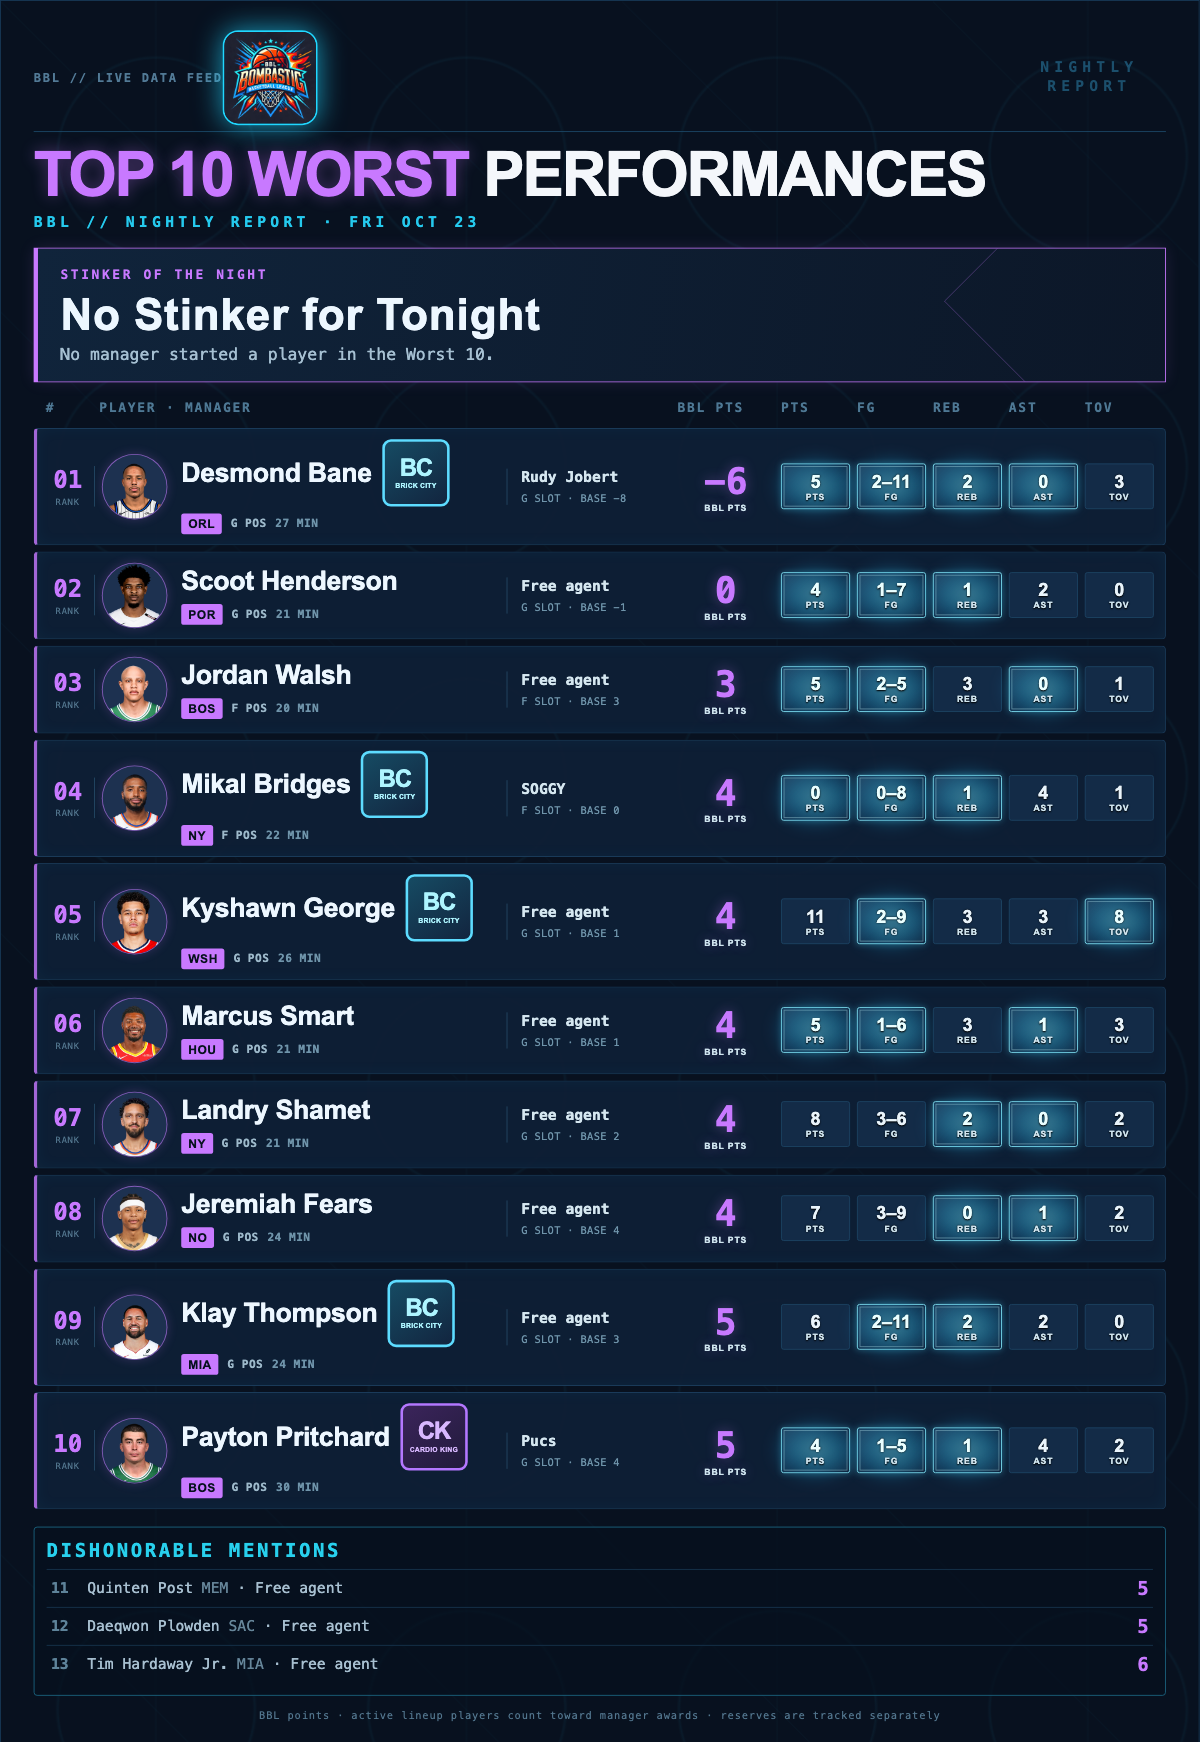
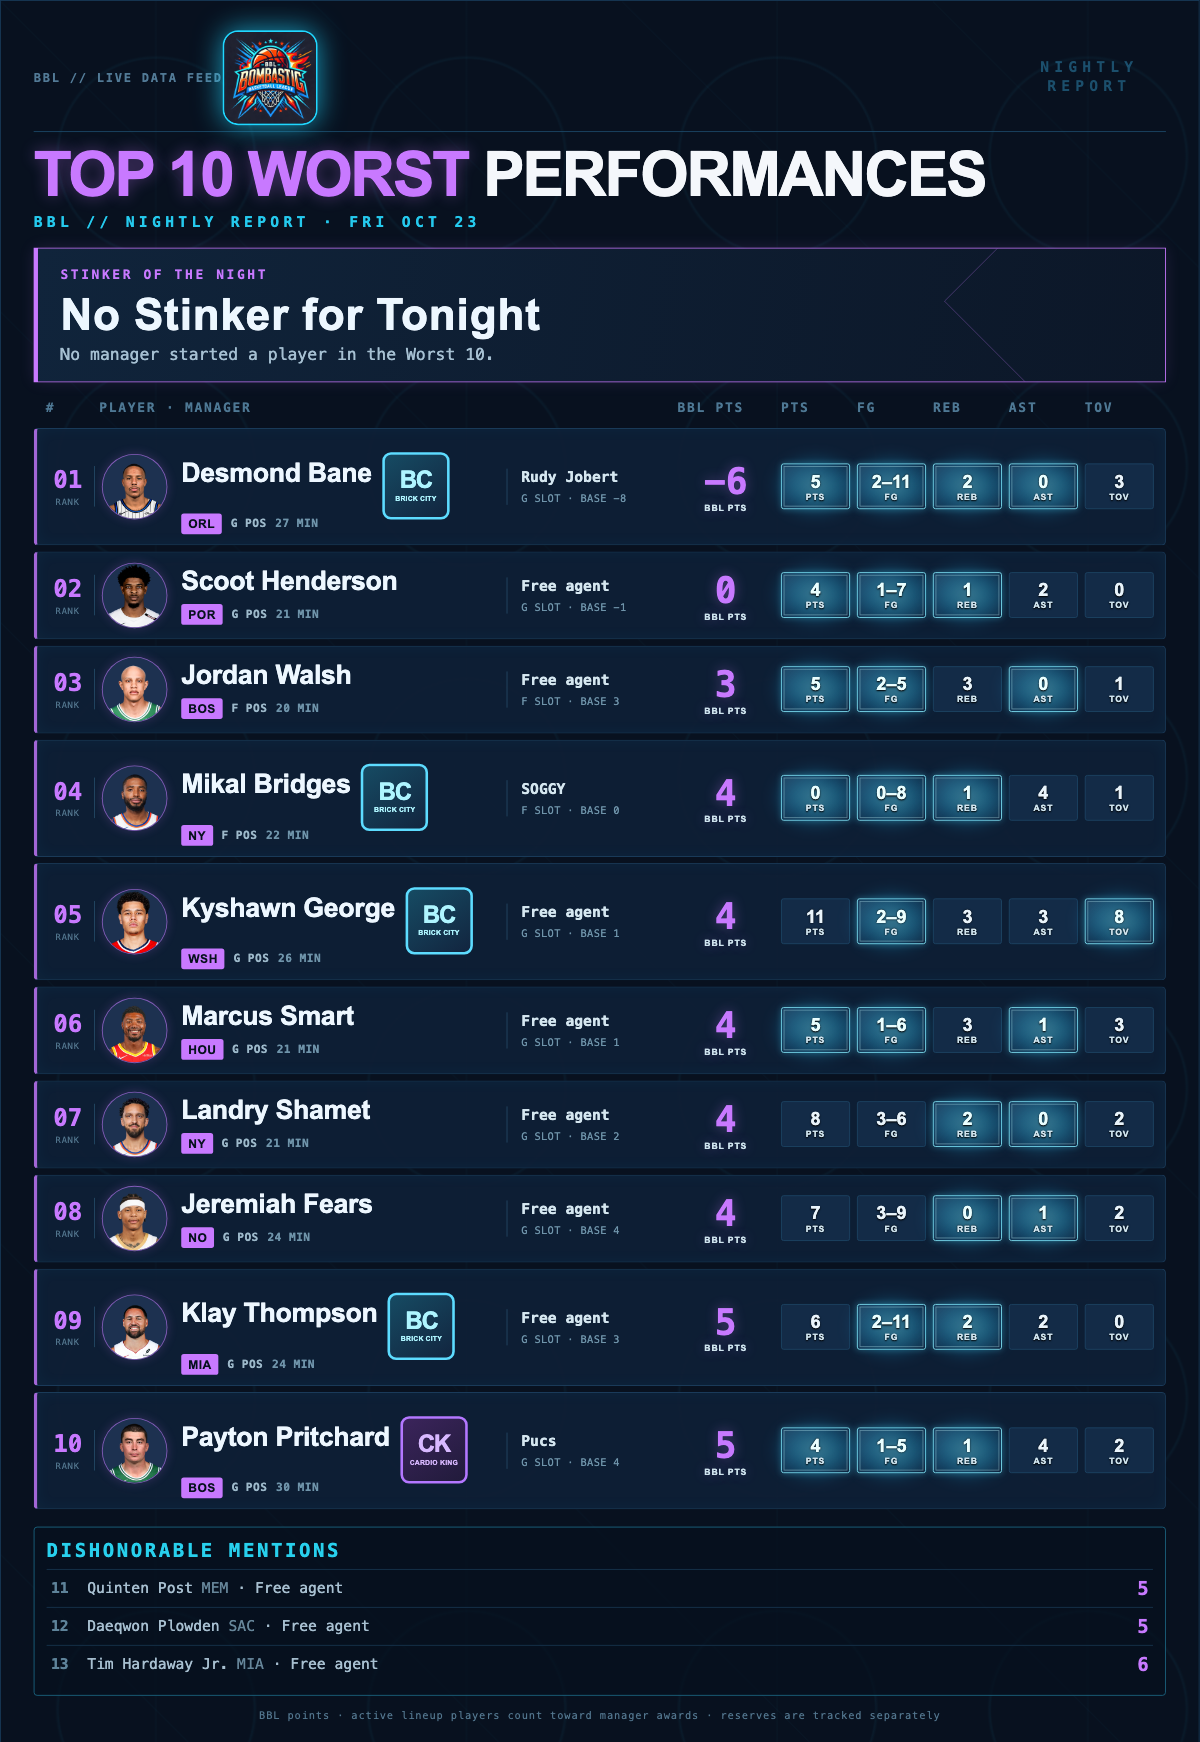
Center award emblems within player cards

diff --git a/bbl/social_cards.py b/bbl/social_cards.py
@@ -149,7 +149,7 @@ h1{{font-size:62px;line-height:.9;margin:0;color:#f4f7fb;letter-spacing:-2px;tex
 .label{{font:700 14px monospace;letter-spacing:3px;color:{accent};text-transform:uppercase}}.award h2{{font-size:42px;letter-spacing:1px;margin:7px 0 3px}}.award p{{font:17px monospace;margin:0;color:#a6c0d2}}
 .cols,.row{{display:grid;grid-template-columns:54px 1fr 112px {stat_columns};gap:8px;align-items:center}}.cols{{padding:0 14px 6px;color:#4e7894;font:700 13px monospace;letter-spacing:2px;text-transform:uppercase}}
 .row{{background:rgba(14,31,53,.94);border:1px solid #1b3c5b;border-left:4px solid {accent}cc;border-radius:5px;padding:9px 12px;margin:6px 0;box-shadow:inset 0 0 18px rgba(30,170,230,.05)}}.row:hover{{border-color:{accent}}}.rank{{font:700 24px monospace;color:{accent};text-align:center;border-right:1px solid #244965;padding-right:8px}}.rank small{{display:block;font:9px monospace;color:#52758d;letter-spacing:1px;margin-top:3px}}
- .who{{display:grid;grid-template-columns:70px minmax(0,1fr) 190px;gap:12px;align-items:center;min-width:0}}.who b{{display:block;font-size:24px;letter-spacing:-.4px;white-space:nowrap;overflow:hidden;text-overflow:ellipsis}}.headshot{{width:66px;height:66px;object-fit:cover;border-radius:50%;background:#1d3150;border:1px solid {accent}99;box-shadow:0 0 12px {accent}33}}.headshot.placeholder{{background:linear-gradient(135deg,#162c47,#0a1627)}}.name-line{{display:flex;align-items:center;gap:12px;min-width:0}}.name-line b{{min-width:0}}.player-meta{{display:flex;align-items:center;gap:8px;margin-top:6px;white-space:nowrap}}.who .team{{display:inline-block;color:#07111e;background:{accent};border-radius:3px;padding:3px 7px;font:800 12px Arial,sans-serif;letter-spacing:.6px}}.position,.minutes{{color:#9db9ca;font:700 12px monospace;letter-spacing:.5px}}.minutes{{color:#6f94aa}}.badge{{display:inline-flex;align-self:center;flex:0 0 auto;width:78px;height:78px;align-items:center;justify-content:center;flex-direction:column;gap:3px;padding:5px;border:3px solid;border-radius:10px;font:900 10px Arial,sans-serif;letter-spacing:.2px;white-space:normal;text-align:center;box-shadow:inset 0 0 15px #ffffff18,0 0 16px currentColor77;transform:none}}.badge i{{display:block;background:none;font:900 28px/27px Arial,sans-serif;font-style:normal;letter-spacing:-1.5px}}.badge strong{{display:block;font:900 8px/9px Arial,sans-serif;letter-spacing:.2px;max-width:66px}}.badge-triple{{color:#74ecff;border-color:#35d8ff;background:linear-gradient(145deg,#123d59,#0b203b)}}.badge-double{{color:#ffd36b;border-color:#ffad32;background:linear-gradient(145deg,#553516,#2b1b25)}}.badge-cardio{{color:#d8b8ff;border-color:#b477ff;background:linear-gradient(145deg,#3b245b,#211b3b)}}.badge-brick{{color:#aef5ff;border-color:#5ddcff;background:linear-gradient(145deg,#164b63,#12253f)}}.details{{min-width:0;border-left:1px solid #244965;padding-left:14px}}.details small{{display:block;color:#d5e7f0;font:700 15px monospace;white-space:nowrap;overflow:hidden;text-overflow:ellipsis}}.details em{{display:block;color:#6f94aa;font:11px monospace;font-style:normal;margin-top:7px;letter-spacing:.4px;white-space:nowrap}}
+ .who{{display:grid;grid-template-columns:70px minmax(0,1fr) 190px;gap:12px;align-items:center;min-width:0}}.who b{{display:block;font-size:24px;letter-spacing:-.4px;white-space:nowrap;overflow:hidden;text-overflow:ellipsis}}.headshot{{width:66px;height:66px;object-fit:cover;border-radius:50%;background:#1d3150;border:1px solid {accent}99;box-shadow:0 0 12px {accent}33}}.headshot.placeholder{{background:linear-gradient(135deg,#162c47,#0a1627)}}.name-line{{display:flex;align-items:center;gap:12px;min-width:0}}.name-line b{{min-width:0}}.player-meta{{display:flex;align-items:center;gap:8px;margin-top:6px;white-space:nowrap}}.who .team{{display:inline-block;color:#07111e;background:{accent};border-radius:3px;padding:3px 7px;font:800 12px Arial,sans-serif;letter-spacing:.6px}}.position,.minutes{{color:#9db9ca;font:700 12px monospace;letter-spacing:.5px}}.minutes{{color:#6f94aa}}.badge{{display:inline-flex;align-self:center;flex:0 0 auto;width:78px;height:78px;align-items:center;justify-content:center;flex-direction:column;gap:3px;padding:5px;border:3px solid;border-radius:10px;font:900 10px Arial,sans-serif;letter-spacing:.2px;white-space:normal;text-align:center;box-shadow:inset 0 0 15px #ffffff18,0 0 16px currentColor77;transform:translateY(15px)}}.badge i{{display:block;background:none;font:900 28px/27px Arial,sans-serif;font-style:normal;letter-spacing:-1.5px}}.badge strong{{display:block;font:900 8px/9px Arial,sans-serif;letter-spacing:.2px;max-width:66px}}.badge-triple{{color:#74ecff;border-color:#35d8ff;background:linear-gradient(145deg,#123d59,#0b203b)}}.badge-double{{color:#ffd36b;border-color:#ffad32;background:linear-gradient(145deg,#553516,#2b1b25)}}.badge-cardio{{color:#d8b8ff;border-color:#b477ff;background:linear-gradient(145deg,#3b245b,#211b3b)}}.badge-brick{{color:#aef5ff;border-color:#5ddcff;background:linear-gradient(145deg,#164b63,#12253f)}}.details{{min-width:0;border-left:1px solid #244965;padding-left:14px}}.details small{{display:block;color:#d5e7f0;font:700 15px monospace;white-space:nowrap;overflow:hidden;text-overflow:ellipsis}}.details em{{display:block;color:#6f94aa;font:11px monospace;font-style:normal;margin-top:7px;letter-spacing:.4px;white-space:nowrap}}
 .score{{color:{accent};font:800 31px monospace;text-align:center;text-shadow:0 0 15px {accent}55}}.score small,.stat small{{display:block;font:8px monospace;color:#7394aa;letter-spacing:1px}}.stat{{position:relative;z-index:1;background:#132b47;border:1px solid #1d4564;border-radius:3px;text-align:center;padding:5px 2px;font:700 16px monospace;overflow:visible;isolation:isolate}}.stat.hot{{border:2px solid #ffad32;box-shadow:0 0 5px #ffb000,0 0 15px #ff4b1f99;color:#fff8dd;background:linear-gradient(180deg,#5b2417,#261925)}}.stat.hot:before{{content:"";position:absolute;z-index:-1;left:-8px;right:-8px;top:-15px;bottom:-9px;background:linear-gradient(150deg,#ffd45a 0 10%,transparent 11% 22%,#ff7a18 23% 35%,transparent 36% 49%,#ff3219 50% 64%,transparent 65% 78%,#ff9b20 79% 90%,transparent 91%);clip-path:polygon(0 100%,3% 54%,16% 68%,18% 20%,29% 52%,42% 0,53% 49%,66% 14%,75% 53%,89% 5%,94% 59%,100% 35%,100% 100%);filter:drop-shadow(0 0 8px #ff4b1f);pointer-events:none}}.stat.hot:after{{content:"";position:absolute;inset:2px;border:1px solid #ffd36b99;background:linear-gradient(180deg,transparent,#ff5a1a33);pointer-events:none}}.stat.cold{{border:2px solid #b9fbff;box-shadow:0 0 6px #b9fbff,0 0 18px #28cfff99;color:#edffff;background:linear-gradient(135deg,#d8ffff 0 4%,#3caed2 6% 12%,#153b5b 13% 82%,#0a223b 83%)}}.stat.cold:before{{content:"";position:absolute;z-index:-1;inset:-7px;background:linear-gradient(135deg,#dfffff,#55e9ff 20%,#135b88 48%,#a9f8ff 72%,#1b719c);clip-path:polygon(0 8%,18% 15%,28% 0,43% 13%,59% 3%,74% 17%,100% 7%,88% 31%,100% 50%,87% 66%,100% 93%,76% 84%,63% 100%,48% 87%,28% 100%,19% 85%,0 94%,11% 69%,0 51%,12% 32%);filter:drop-shadow(0 0 7px #46eaff);pointer-events:none}}.stat.cold:after{{content:"";position:absolute;inset:2px;background:linear-gradient(125deg,transparent 27%,#e7ffff99 28% 31%,transparent 32% 56%,#bdfaff77 57% 60%,transparent 61%);pointer-events:none}}.stat span{{position:relative;z-index:1}}.stat small{{position:relative;z-index:1}}.stat:not(.hot):not(.cold) span{{color:#e9f4fb}}.stat:not(.hot):not(.cold){{color:#fff}}
 .section{{border:1px solid #1c6682;border-radius:4px;margin-top:18px;padding:13px;background:rgba(5,17,31,.72)}}.section h3{{color:#28d0ed;font:700 19px monospace;letter-spacing:3px;margin:0 0 8px}}.mention{{display:grid;grid-template-columns:42px 1fr 70px;align-items:center;border-top:1px solid #17354e;padding:8px 4px;color:#a8c0d1;font:15px monospace}}.mention b{{color:#5e839a}}.mention i{{font-style:normal;color:#66869a}}.mention strong{{color:{accent};text-align:right;font:700 20px monospace}}
  footer{{margin-top:18px;text-align:center;color:#52758d;font:11px monospace;letter-spacing:1px}}
